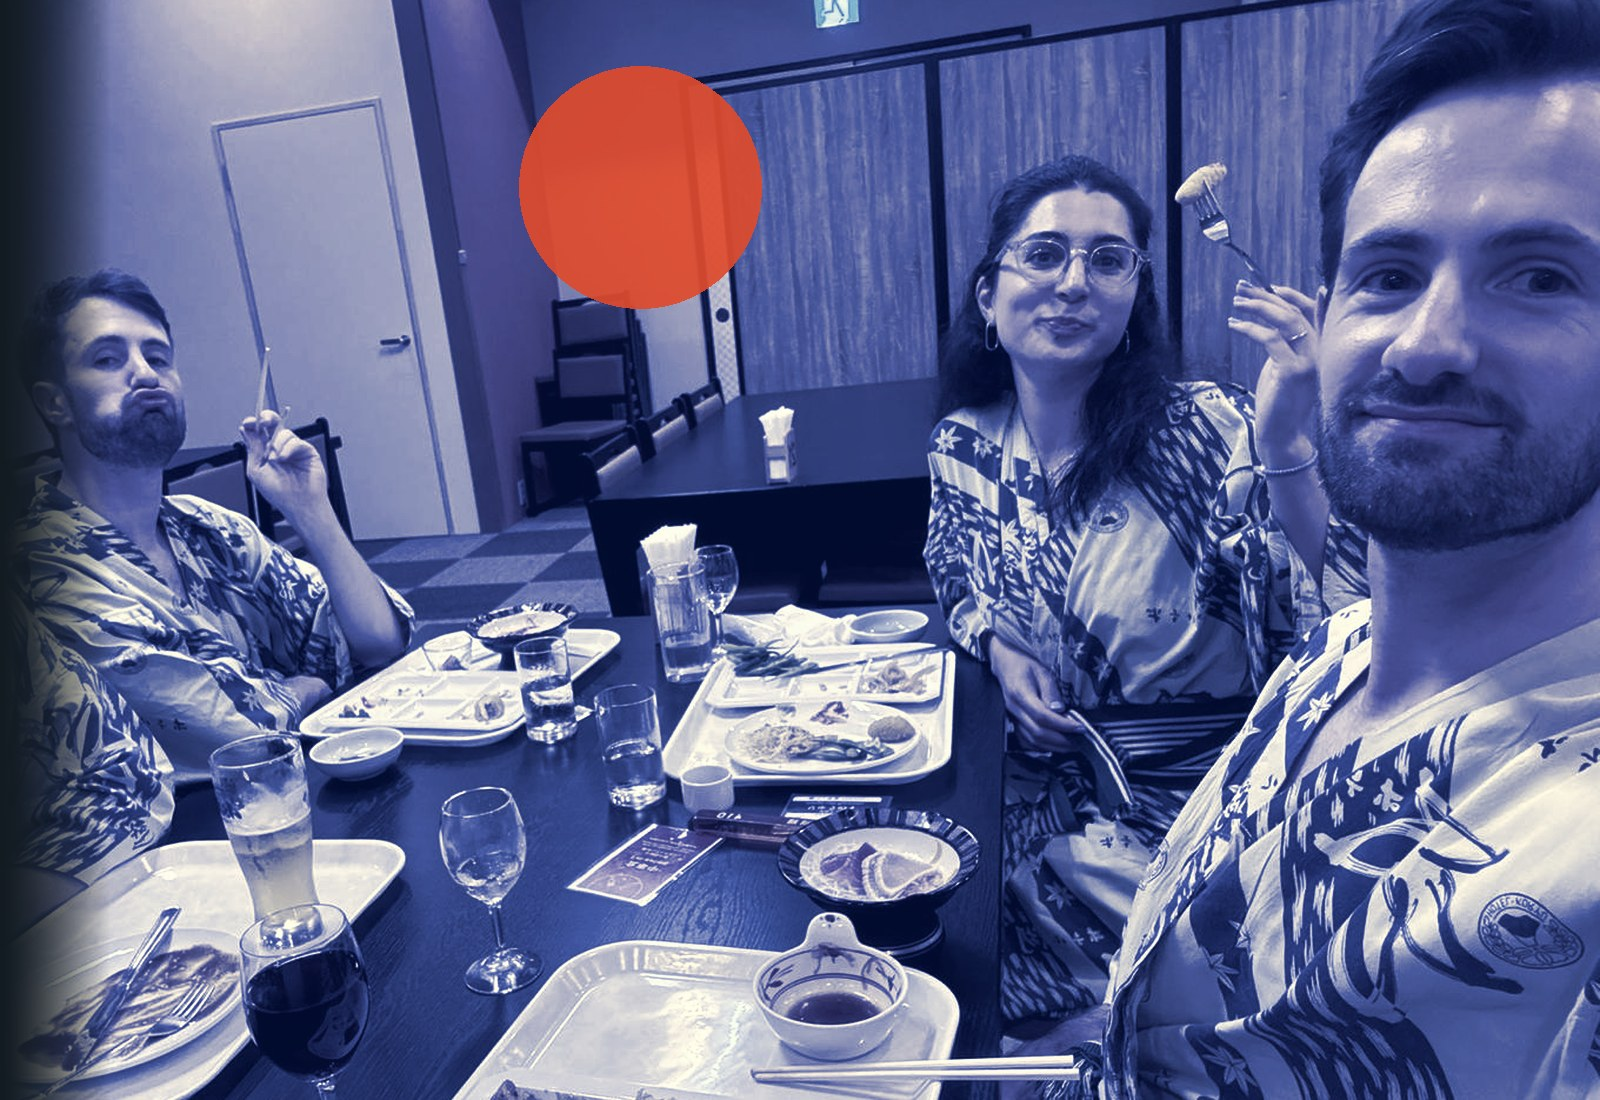
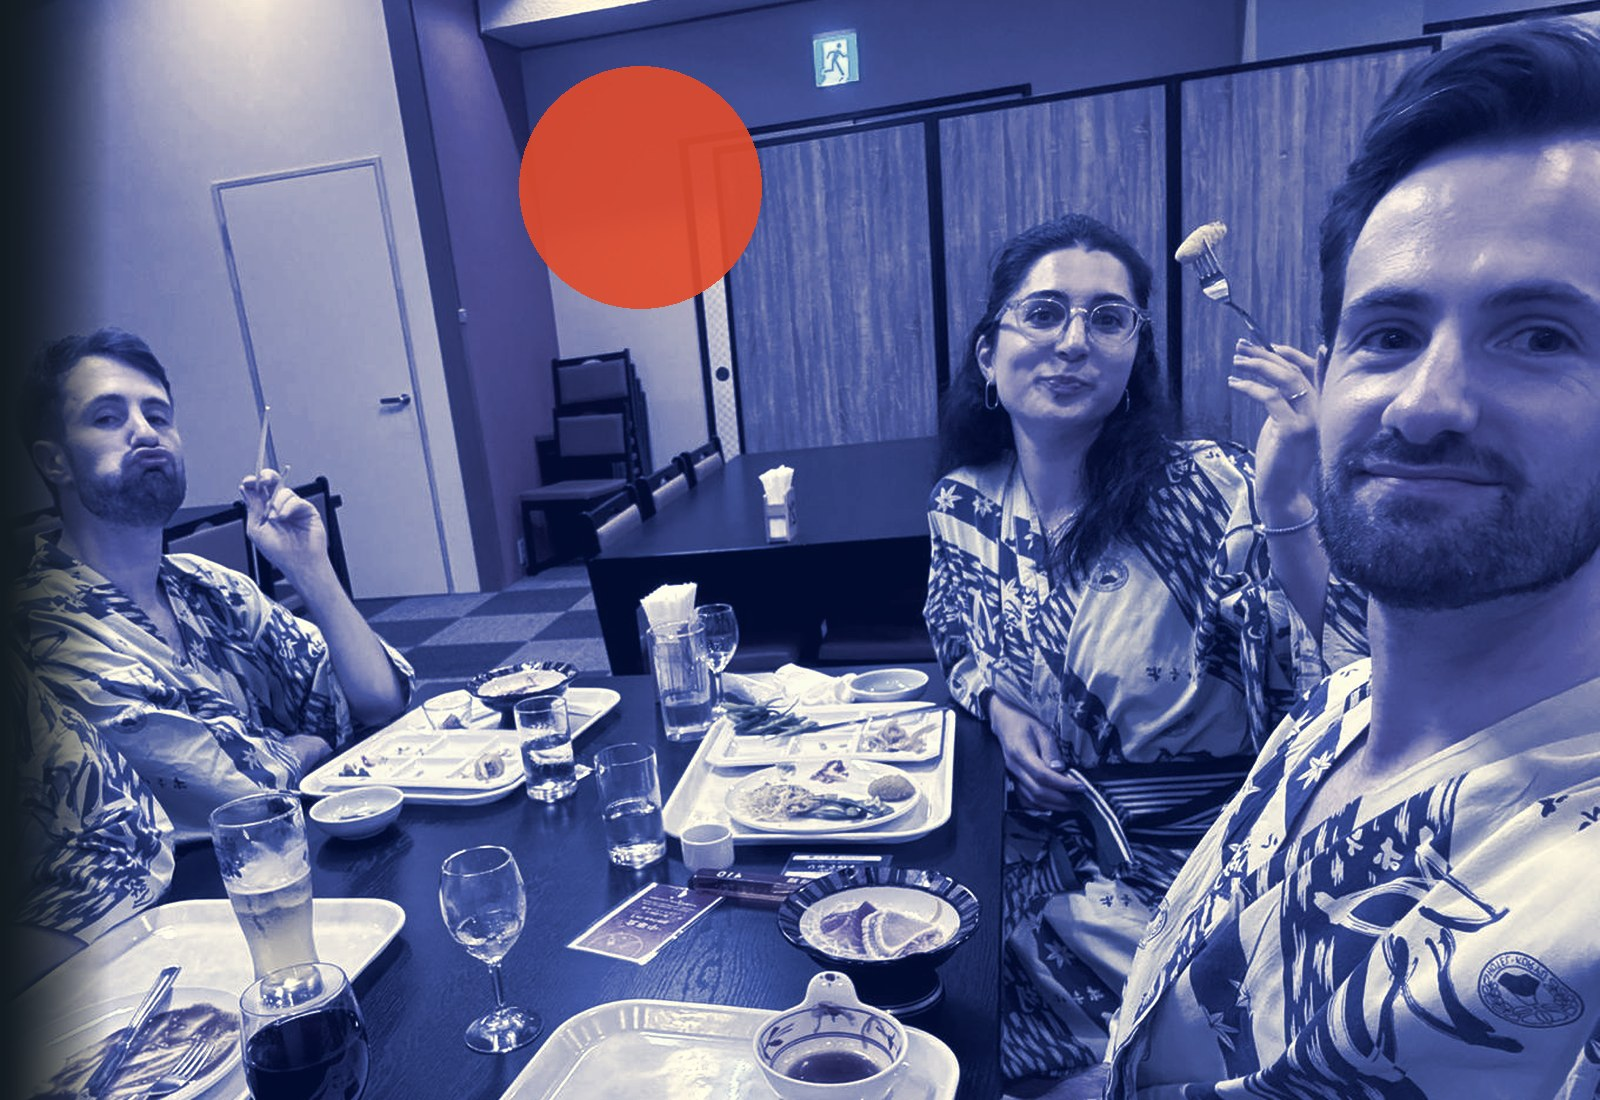
Cover with more headroom on desktop, optional Plan B per day
Claude-Session: https://claude.ai/code/session_01E1q44beLRvY3apaNxskcXF

diff --git a/cockpit.html b/cockpit.html
@@ -18,7 +18,7 @@
 <link rel="preconnect" href="https://fonts.googleapis.com">
 <link rel="preconnect" href="https://fonts.gstatic.com" crossorigin>
 <link href="https://fonts.googleapis.com/css2?family=Barlow+Condensed:wght@500;600;700&amp;family=Source+Serif+4:opsz,wght@8..60,400;8..60,600&amp;family=Source+Sans+3:wght@400;500;600;700&amp;family=JetBrains+Mono:wght@500&amp;display=swap" rel="stylesheet">
-<link rel="stylesheet" href="style.css?v=20">
+<link rel="stylesheet" href="style.css?v=21">
 <style>
 :root{
   /* Layout: Kopf mit Countdown, Tab-Leiste wie Wegweiser, darunter je Bereich Karten in einer Spalte (max 860px) */
@@ -80,11 +80,11 @@ button,input,select,textarea{font:inherit;color:inherit}
 
 /* Kopf */
 header.top{color:#eef3f4;background:#111a20;padding:0 0 18px}
-.heroimg{height:240px;background:#16212a url("img/cover-yukata-wide.jpg") center 45%/cover no-repeat;position:relative;margin-bottom:16px}
+.heroimg{height:240px;background:#16212a url("img/cover-yukata-wide.jpg?v=2") center 22%/cover no-repeat;position:relative;margin-bottom:16px}
 .heroimg::after{content:"";position:absolute;inset:auto 0 0 0;height:70px;background:linear-gradient(180deg,rgba(17,26,32,0),#111a20)}
 @media (max-width:700px){.heroimg{height:43vw;background-position:center center}}
 @media (display-mode: standalone) and (max-width:700px){header.top .heroimg{height:calc(43vw + env(safe-area-inset-top));background-position:center bottom}}
-@media (min-width:700px){.heroimg{height:300px}}
+@media (min-width:700px){.heroimg{height:min(38vw,520px);background-position:center 18%}}
 .crew{display:grid;grid-template-columns:repeat(2,1fr);gap:12px}
 .mate{display:grid;grid-template-columns:72px 1fr;gap:12px;align-items:center;background:var(--surface);border:1px solid var(--line);border-radius:var(--radius);padding:10px 12px}
 .mate img{width:72px;height:72px;border-radius:50%;object-fit:cover;border:3px solid var(--trail)}
@@ -301,6 +301,7 @@ footer{padding:20px 0 40px;font-size:.8rem;color:var(--muted)}
 .slot.compact .chips{display:flex;flex-wrap:wrap;gap:6px;align-items:center}
 .chip.claude{background:color-mix(in srgb,var(--accent) 12%,transparent);color:var(--accent);font-size:.72rem}
 .packcat.info{background:var(--bg);border-radius:12px;padding:10px 12px}.packcat.info h3{color:var(--muted)}
+.altplan{margin:8px 0 2px;border-top:1px dashed var(--line);padding-top:6px}.altplan summary{cursor:pointer;font-size:.88rem;color:var(--muted);font-weight:600}.altplan[open] summary{color:var(--ink)}
 /* Umrechner */
 .fx{display:grid;gap:10px}
 .fx-row{display:grid;grid-template-columns:1fr auto;align-items:center;gap:8px;padding:10px 14px;border:1px solid var(--line);border-radius:14px;background:var(--surface)}
@@ -394,12 +395,12 @@ footer{padding:20px 0 40px;font-size:.8rem;color:var(--muted)}
 <footer class="wrap">All times are local time.</footer>
 
 <div class="lb" id="lb" role="dialog" aria-modal="true" aria-label="Photo"><button type="button" id="lbClose">Close</button><img id="lbImg" alt=""></div>
-<script src="cockpit-flags.js?v=20"></script>
+<script src="cockpit-flags.js?v=21"></script>
 <script src="vendor/supabase.js?v=2.45.4"></script>
-<script src="config.js?v=20"></script>
-<script src="trip.js?v=20"></script>
-<script src="route-map.js?v=20"></script>
-<script src="app.js?v=20"></script>
-<script src="cockpit.js?v=20"></script>
+<script src="config.js?v=21"></script>
+<script src="trip.js?v=21"></script>
+<script src="route-map.js?v=21"></script>
+<script src="app.js?v=21"></script>
+<script src="cockpit.js?v=21"></script>
 </body>
 </html>

diff --git a/index.html b/index.html
@@ -23,15 +23,15 @@
 <link rel="preconnect" href="https://fonts.gstatic.com" crossorigin>
 <link href="https://fonts.googleapis.com/css2?family=Barlow+Condensed:wght@500;600;700&amp;family=Source+Serif+4:opsz,wght@8..60,400;8..60,600&amp;family=Source+Sans+3:wght@400;600;700&amp;display=swap" rel="stylesheet">
 <style>@media (display-mode: standalone){.hero{padding-top:env(safe-area-inset-top)}}</style>
-<link rel="stylesheet" href="style.css?v=20">
+<link rel="stylesheet" href="style.css?v=21">
 </head>
 <body>
 <div id="app"><p class="col" style="padding:40px 16px">Loading …</p></div>
 <div class="lb" id="lb" role="dialog" aria-modal="true" aria-label="Photo"><button type="button" id="lbClose">Close</button><img id="lbImg" alt=""></div>
 <script src="vendor/supabase.js?v=2.45.4"></script>
-<script src="config.js?v=20"></script>
-<script src="trip.js?v=20"></script>
-<script src="route-map.js?v=20"></script>
-<script src="app.js?v=20"></script>
+<script src="config.js?v=21"></script>
+<script src="trip.js?v=21"></script>
+<script src="route-map.js?v=21"></script>
+<script src="app.js?v=21"></script>
 </body>
 </html>

diff --git a/style.css b/style.css
@@ -19,7 +19,7 @@ button,input,select,textarea{font:inherit;color:inherit}
 :focus-visible{outline:3px solid var(--accent);outline-offset:2px}
 .col{max-width:720px;margin:0 auto;padding-left:max(20px,env(safe-area-inset-left));padding-right:max(20px,env(safe-area-inset-right))}
 .muted{color:var(--muted)} .small{font-size:.88rem}
-.hero{position:relative;color:#fff;background:#18232b url("img/cover-yukata.jpg") center 30%/cover no-repeat;min-height:min(66vw,820px);display:flex;align-items:flex-end}
+.hero{position:relative;color:#fff;background:#18232b url("img/cover-yukata.jpg?v=2") center 12%/cover no-repeat;min-height:min(66vw,820px);display:flex;align-items:flex-end}
 .hero::before{content:"";position:absolute;inset:0;background:linear-gradient(180deg,rgba(8,14,18,0) 35%,rgba(8,14,18,.82) 100%)}
 .hero .col{position:relative;width:100%;padding-bottom:26px;padding-top:env(safe-area-inset-top)}
 .eyebrow{font-family:var(--display);letter-spacing:.16em;text-transform:uppercase;font-size:.9rem;opacity:.85}

diff --git a/sw.js b/sw.js
@@ -1,5 +1,5 @@
 // Service Worker: hält die Seite selbst offline verfügbar (Posts/Fotos kommen immer frisch aus der Datenbank)
-const V = "kyushu-v20";
+const V = "kyushu-v21";
 const ASSETS = ["./", "index.html", "cockpit.html", "style.css", "app.js", "trip.js", "config.js", "cockpit.js", "cockpit-flags.js", "route-map.js", "vendor/supabase.js?v=2.45.4", "vendor/591.supabase.js", "img/icon-192.png", "img/icon-512.png", "img/apple-touch-icon.png"];
 self.addEventListener("install", e => { e.waitUntil(caches.open(V).then(c => Promise.allSettled(ASSETS.map(a => c.add(a)))).then(() => self.skipWaiting())); });
 self.addEventListener("activate", e => { e.waitUntil(caches.keys().then(ks => Promise.all(ks.filter(k => k !== V).map(k => caches.delete(k)))).then(() => self.clients.claim())); });

diff --git a/cockpit.js b/cockpit.js
@@ -133,6 +133,7 @@ function dayCard(day, big){
       <h3>${esc(day.title)}</h3>
       ${day.where ? `<div class="where">${esc(day.where)}</div>` : ""}
       <ul class="steps">${(day.steps||[]).map(stepHtml).join("")}</ul>
+      ${day.alt ? `<details class="altplan"><summary>${esc(day.alt.label || "Plan B")}${day.alt.c ? claudeChip(true) : ""}</summary>${day.alt.intro ? `<p class="small muted" style="margin:6px 0 0">${esc(day.alt.intro)}</p>` : ""}<ul class="steps">${(day.alt.steps||[]).map(stepHtml).join("")}</ul></details>` : ""}
       ${day.sleep ? `<div class="sleep"><span class="chip grey">Night</span> ${esc(day.sleep)}</div>` : ""}
     </div></article>`;
 }

diff --git a/trip.js b/trip.js
@@ -16,8 +16,8 @@ window.TRIP = {
   routeLine: "Osaka · Fukuoka · Beppu · Miyazaki · Kirishima · Kumamoto · Unzen · Nagasaki · Ureshino · Osaka",
   intro: "Round two in Japan, this time a road trip around Kyushu: New Year's Eve in Fukuoka, hot springs in Beppu and Unzen, volcanoes in Kirishima and Nagasaki's Chinatown. Follow along here.",
   footer: "Greetings from Japan",
-  heroImage: "img/cover-yukata.jpg",
-  cockpitHero: "img/cover-yukata-wide.jpg",
+  heroImage: "img/cover-yukata.jpg?v=2",
+  cockpitHero: "img/cover-yukata-wide.jpg?v=2",
   noSignalNote: "",
 
   people: [
